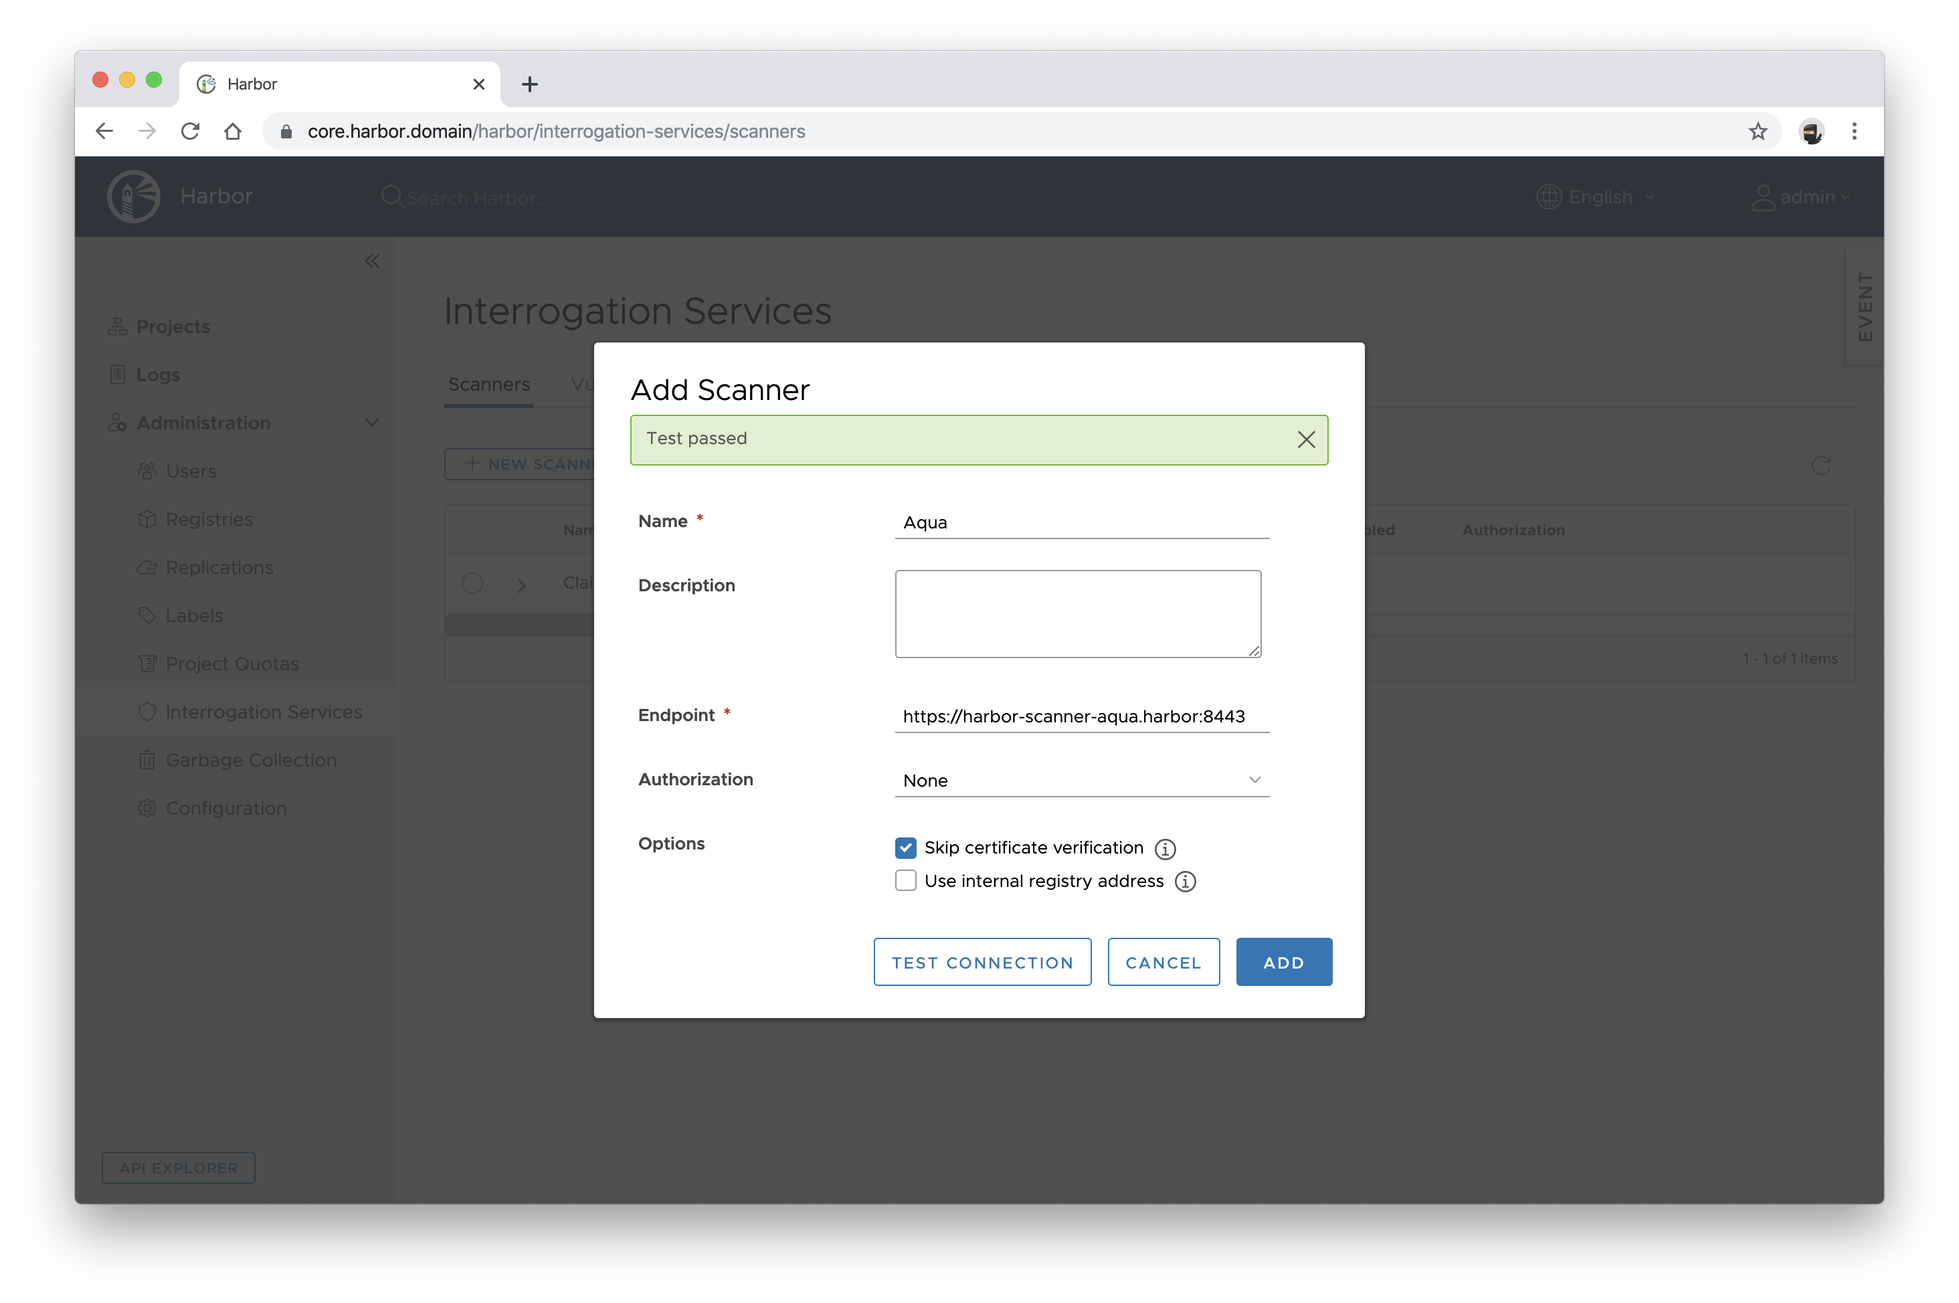
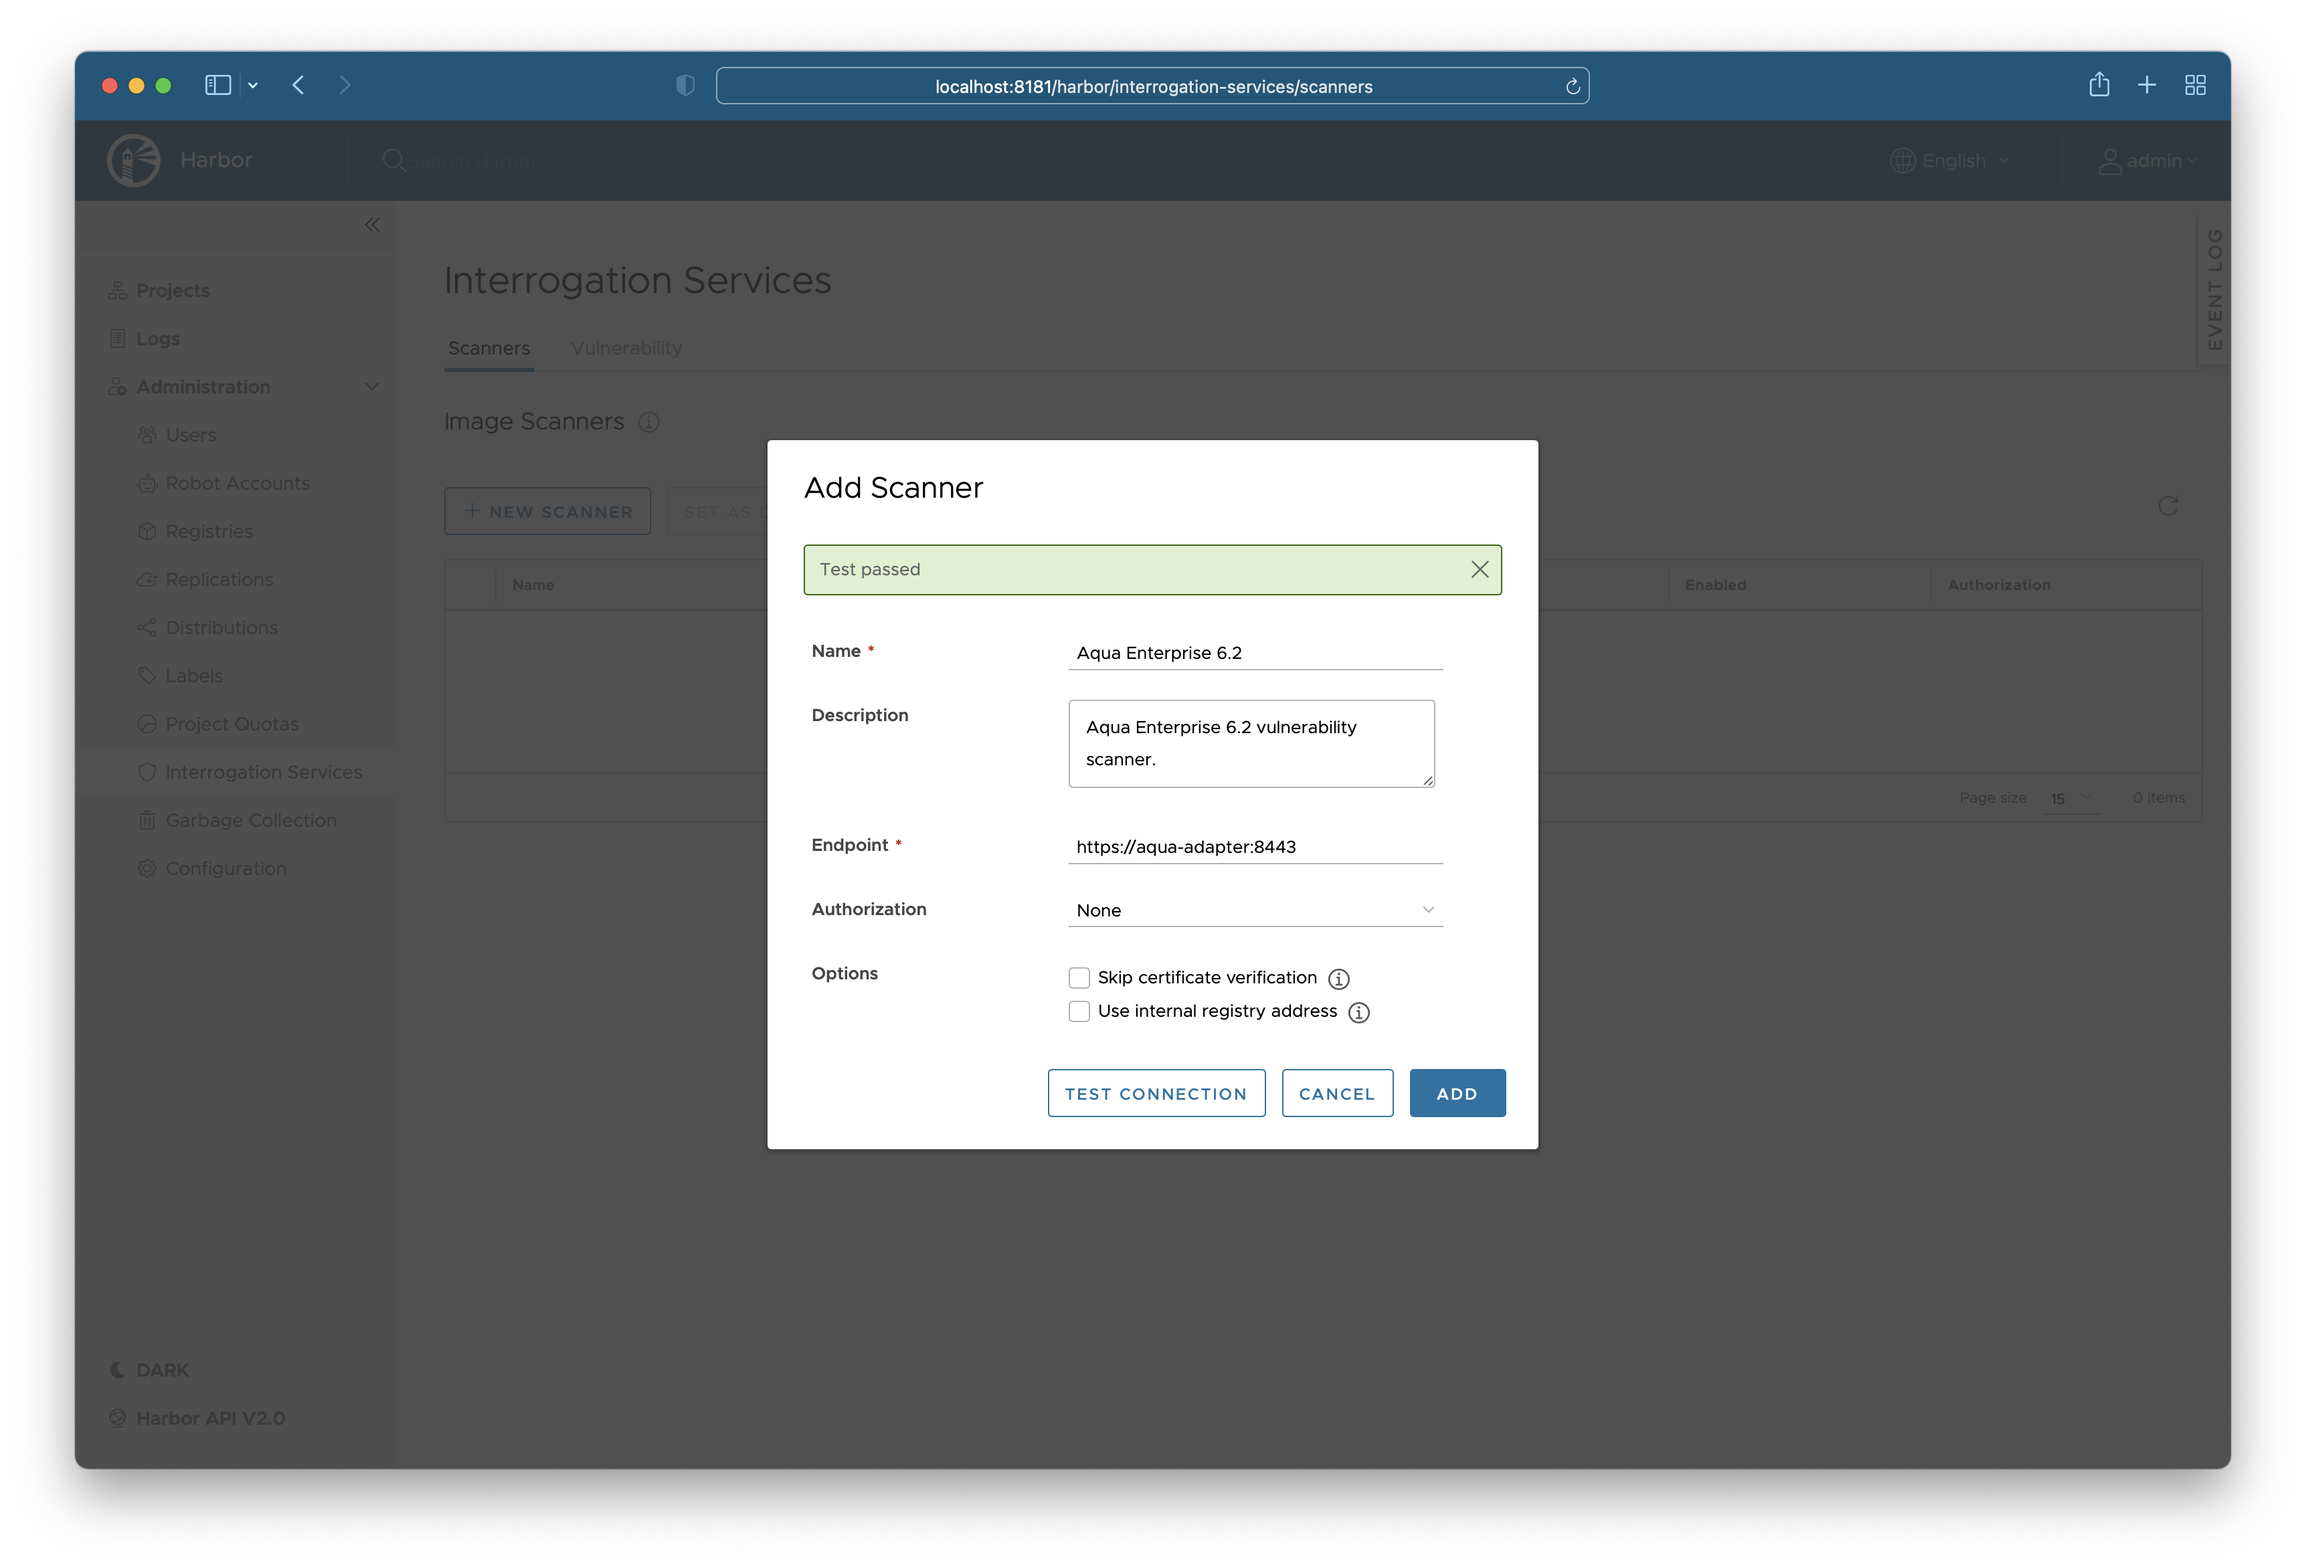
chore: Configure internal TLS communication between Harbor components (#93)

diff --git a/README.md b/README.md
@@ -309,20 +309,24 @@ where `<scc name>` is one of the predefined SCCs or a custom SCC created by the 
    ![Scanners config](docs/images/harbor_ui_scanners_config.png)
 3. Click the **NEW SCANNER** button.
 4. Enter the information to identify the scanner.
-   1. A unique name for this scanner instance, to display in the Harbor interface.
-   2. The API endpoint of the adapter service
+   1. A unique name for this scanner instance to display in the Harbor interface, e.g. **Aqua Enterprise 6.2**.
+   2. The API endpoint URL of the adapter service.
 
-   **NOTE**: For the adapter deployed on Kubernetes the URL is https://harbor-scanner-aqua.harbor:8443.
-   For Docker, it's https://aqua-scanner:8443
+      > **NOTE**: For the adapter deployed on Kubernetes the default URL is https://harbor-scanner-aqua.harbor:8443,
+      > whereas for Docker, it's https://aqua-adapter:8443.
 
    ![Add scanner](docs/images/harbor_ui_add_scanner.png)
-   3. Optionally select **Skip certificate verification** if the scanner uses a self-signed or untrusted certificate.
-5. Click **TEST CONNECTION** to make sure that Harbor can connect successfully to the scanner.
-6. If everything is fine click **ADD** to save the configuration and connect Harbor to the scanner.
+5. Click **TEST CONNECTION** to make sure that Harbor can connect successfully to the adapter service.
+
+   > **NOTE**: When you click the **TEST CONNECTION** button Harbor only pings the adapter service. It does not validate
+   > connection to the Aqua Management Console, which is configured with `SCANNER_AQUA_USERNAME`, `SCANNER_AQUA_PASSWORD`,
+   > and `SCANNER_AQUA_HOST` environment variables. If the connection to the Aqua Management Console is misconfigured
+   > you will see an error message in the scan logs accessible from the Harbor interface.
+6. If everything is fine click **ADD** to save the configuration and connect Harbor to the adapter service.
 7. If you configured multiple scanners, you can designate the Aqua Enterprise scanner as the default one by selecting it
    and clicking **SET AS DEFAULT**.
    ![Set default scanner](docs/images/harbor_ui_default_scanner.png)
-   Make sure the **Default** label is displayed next to the **Aqua** scanner's name.
+   Make sure the **Default** label is displayed next to the Aqua scanner's name.
 
 ## Configuration
 
